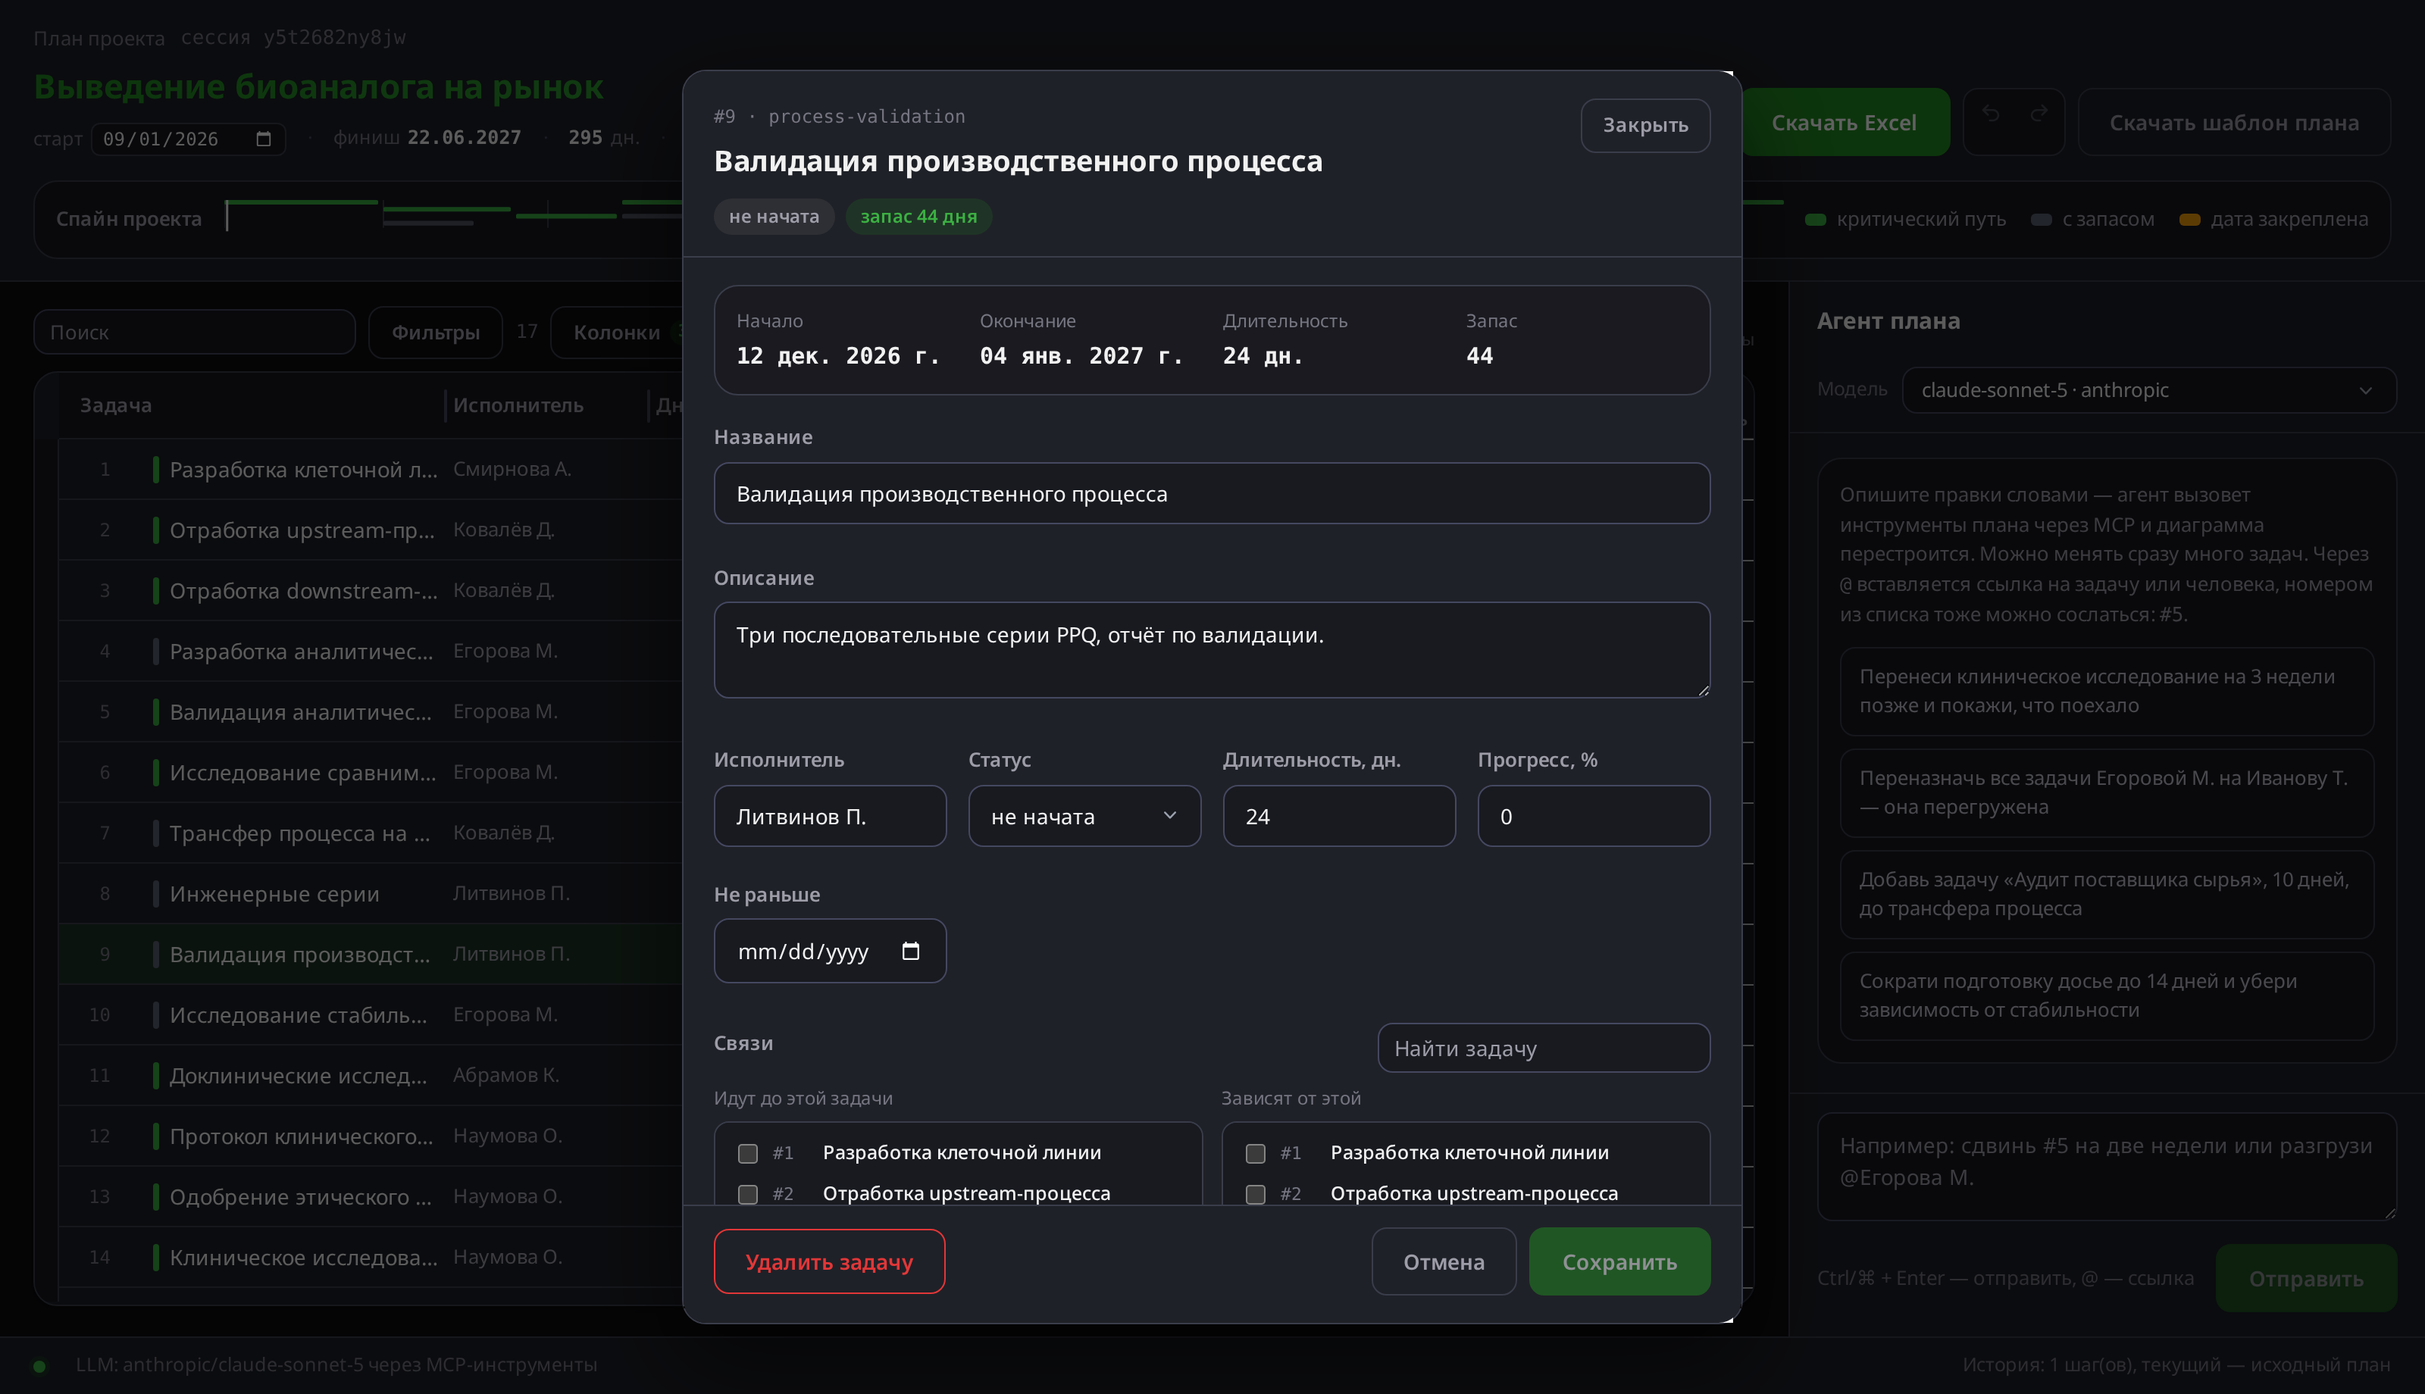
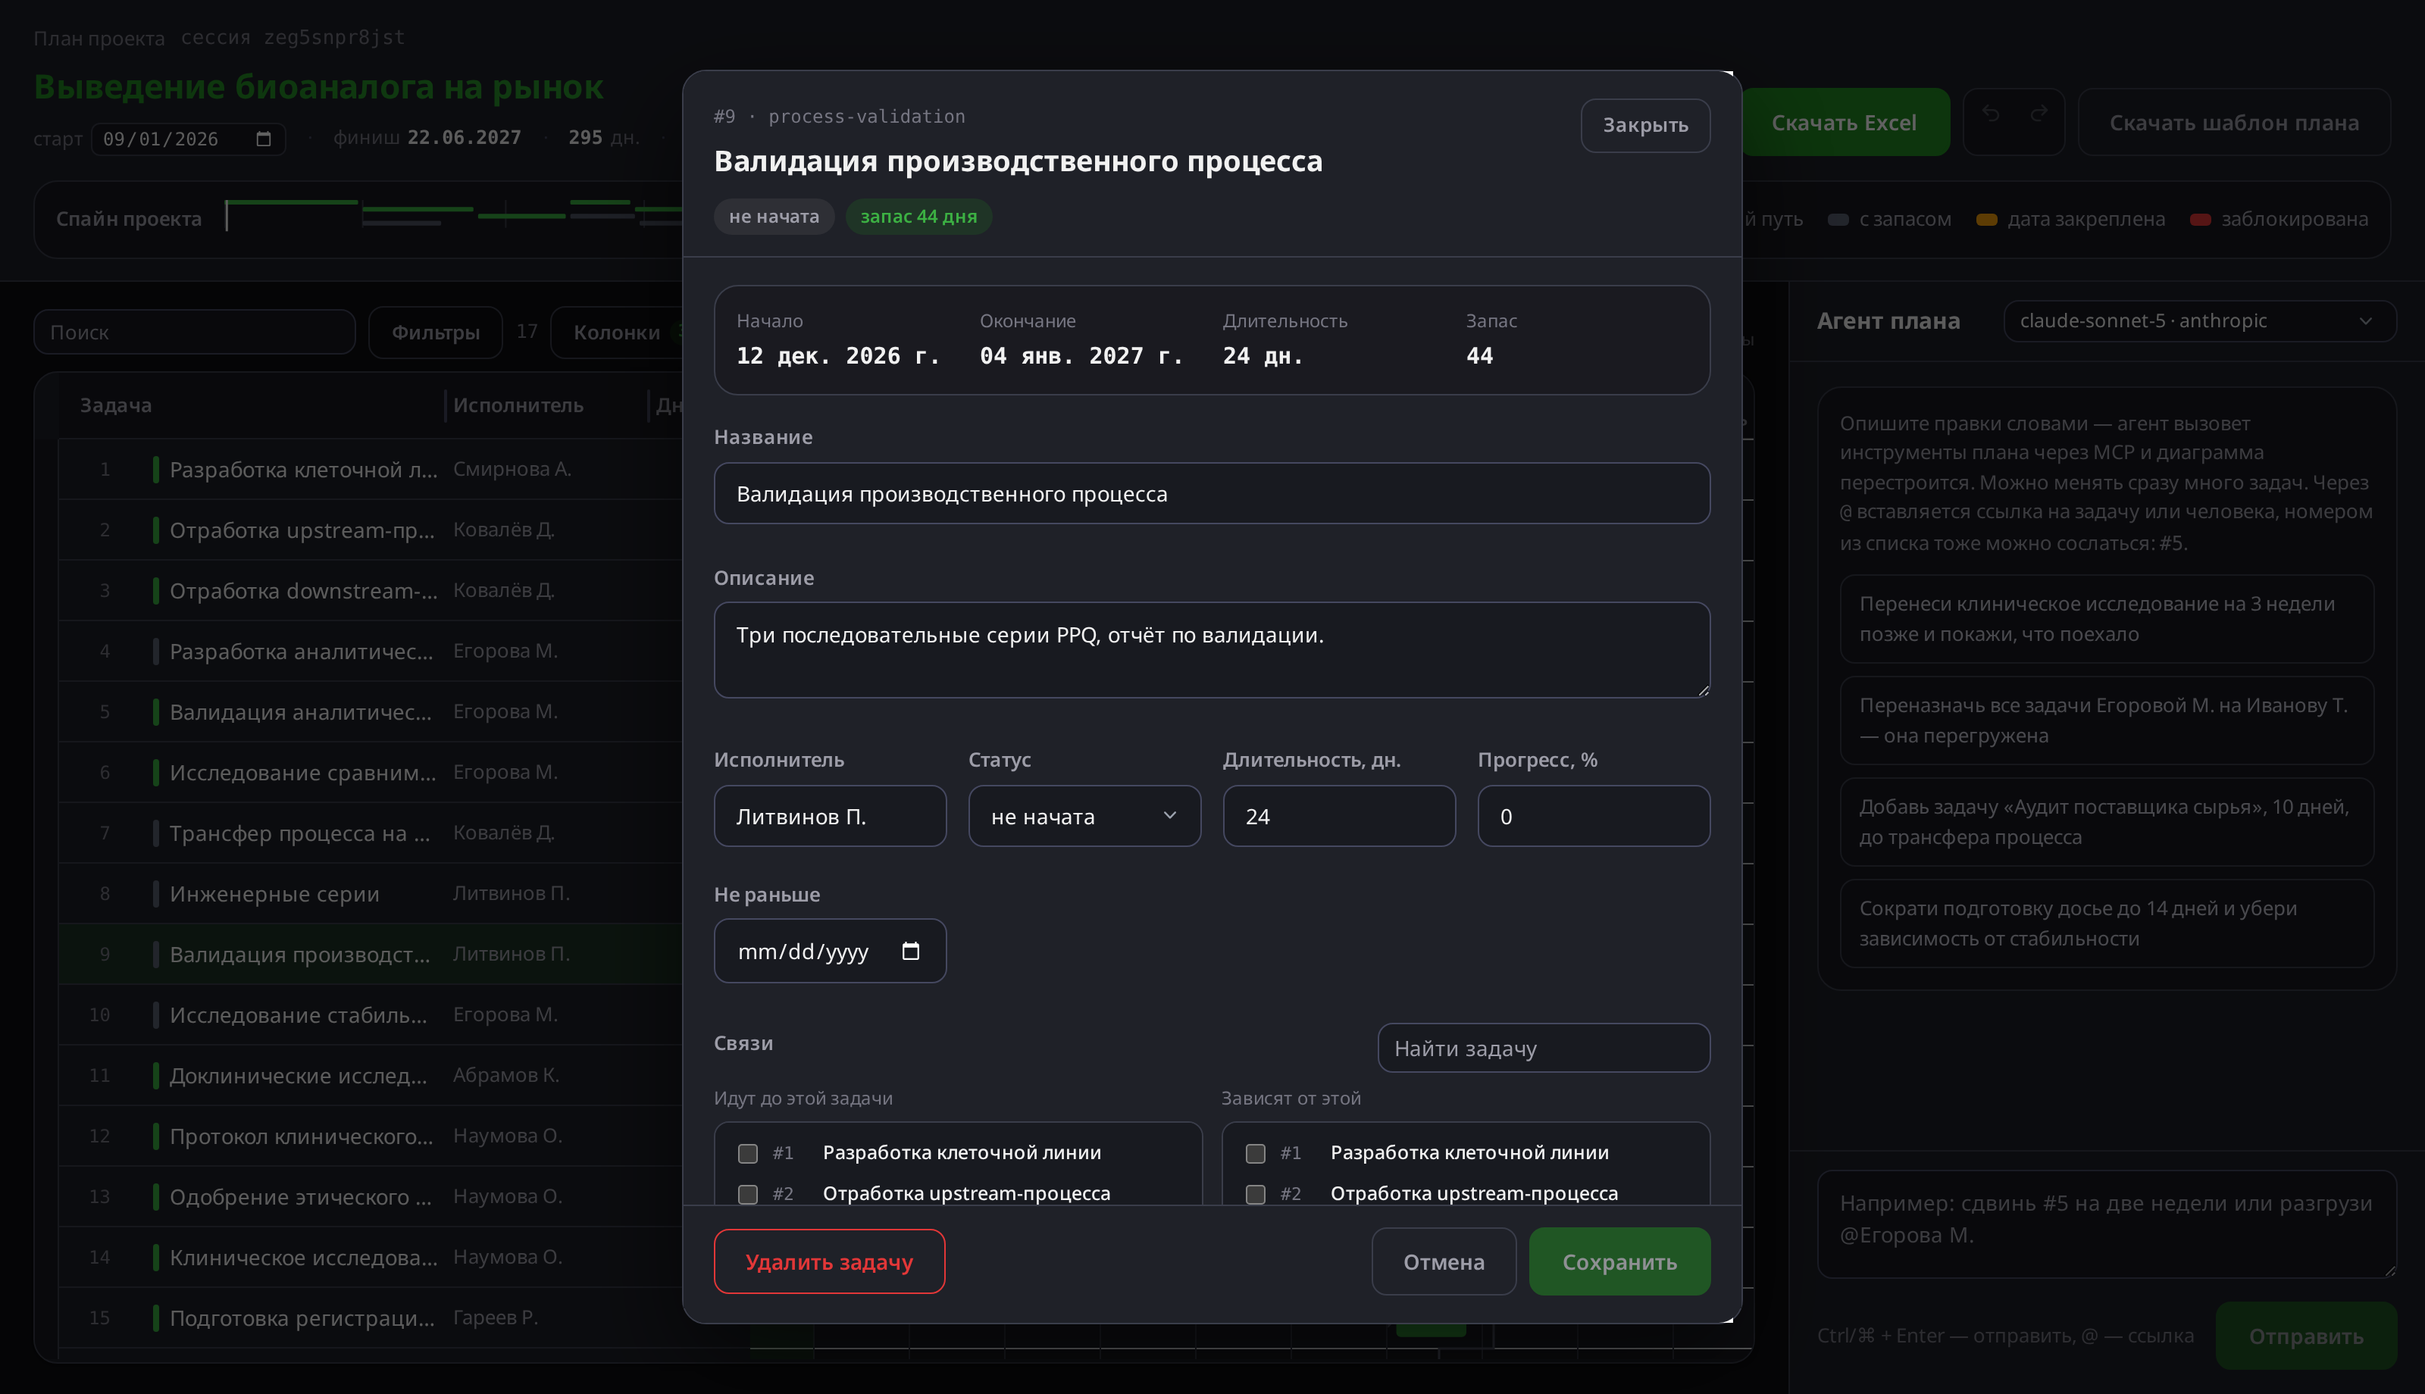
Источник плана и замечания — в шапку, подвал убран, модель в строке заголовка чата
Имя файла, из которого загружен план, теперь видно в шапке рядом с остальными
фактами о плане (или «демо-план», если это шаблон). Для этого в модель добавлено
поле Plan.source: оно живёт в самом плане, поэтому переживает правки, откат и
экспорт, — раньше имя файла проглядывало только в метке истории в подвале.

Подвал со строкой состояния убран. Из него ничего не потерялось: модель видна в
шапке чата, историю показывают стрелки отмены и возврата, а замечания
планировщика (например, «дата закреплена раньше, чем позволяют зависимости»)
переехали в шапку отдельным пунктом с подсказкой — иначе они стали бы невидимыми.

Выбор модели поднят в одну строку с заголовком «Агент плана».

На спайне заблокированные задачи показываются красным, и красный перебивает
критический путь и фиксацию даты: это сигнал проблемы. В легенду добавлен пункт.

Тестов 97 (новые: импорт запоминает имя файла и оно переживает откат; у демо-плана
источника нет).

diff --git a/frontend/src/App.tsx b/frontend/src/App.tsx
@@ -1,6 +1,6 @@
 import { useCallback, useEffect, useMemo, useRef, useState } from "react";
 import { ViewMode } from "gantt-task-react";
-import { Redo2, Undo2 } from "lucide-react";
+import { FileSpreadsheet, Redo2, TriangleAlert, Undo2 } from "lucide-react";
 import { ApiError, api, sessionId, streamChat } from "./api";
 import { ChatPanel } from "./components/ChatPanel";
 import { ColumnPicker, columnsWidth } from "./components/ColumnPicker";
@@ -10,7 +10,7 @@ import { EMPTY_FILTERS, TableFilter, applyFilters, isFilterActive } from "./comp
 import { TaskModal } from "./components/TaskModal";
 import { MIN_WINDOW_DAYS, TimeBrush } from "./components/TimeBrush";
 import { Toasts, type Toast } from "./components/Toasts";
-import { daysBetween, formatDateNumeric } from "./format";
+import { daysBetween, formatDateNumeric, plural } from "./format";
 import { loadPrefs, savePrefs } from "./prefs";
 import type {
   ChatEntry,
@@ -441,6 +441,22 @@ export default function App() {
               <b className="num">{assignees.size}</b>
               <span className="stats__label">исп.</span>
             </span>
+            <span
+              className="stats__item stats__source"
+              title={plan?.source ? `План загружен из файла ${plan.source}` : "Демо-план из шаблона"}
+            >
+              <FileSpreadsheet size={13} />
+              <span>{plan?.source || "демо-план"}</span>
+            </span>
+            {schedule?.warnings && schedule.warnings.length > 0 && (
+              <span
+                className="stats__item stats__warning"
+                title={schedule.warnings.join("\n")}
+              >
+                <TriangleAlert size={13} />
+                <span>{plural(schedule.warnings.length, "замечание", "замечания", "замечаний")}</span>
+              </span>
+            )}
           </div>
         </div>
 
@@ -617,23 +633,6 @@ export default function App() {
           onStop={() => abort.current?.abort()}
         />
       </div>
-
-      <footer className="statusbar">
-        <i className={`statusbar__dot${health?.llm_configured ? "" : " statusbar__dot--off"}`} />
-        <span>
-          {health?.llm_configured
-            ? `LLM: ${health.model} через MCP-инструменты`
-            : "LLM не настроен — чат недоступен"}
-        </span>
-        <span className="statusbar__spacer" />
-        {payload?.history?.length ? (
-          <span>
-            История: {payload.history.length} шаг(ов), текущий —{" "}
-            {payload.history.find((item) => item.is_current)?.label ?? "—"}
-          </span>
-        ) : null}
-        {schedule?.warnings?.length ? <span>Предупреждений: {schedule.warnings.length}</span> : null}
-      </footer>
 
       <Toasts toasts={toasts} onDismiss={dismissToast} />
 

diff --git a/frontend/src/styles.css b/frontend/src/styles.css
@@ -193,6 +193,23 @@ a.frox-btn {
   color: var(--accent-text) !important;
 }
 
+/* Источник плана — там же, где остальные факты о плане: раньше имя файла было
+   видно только в метке истории в подвале. */
+.stats__source {
+  gap: 6px;
+  color: var(--text-secondary);
+}
+
+.stats__source svg {
+  color: var(--text-muted);
+}
+
+.stats__warning {
+  gap: 6px;
+  color: var(--admin-accent);
+  cursor: help;
+}
+
 .stats__date {
   padding: 2px 6px;
   border: 1px solid var(--border);
@@ -978,39 +995,20 @@ body.is-dragging-row * {
   display: flex;
   align-items: center;
   justify-content: space-between;
-  gap: 10px;
-  padding: 14px 18px 12px;
+  gap: 12px;
+  padding: 12px 18px;
   border-bottom: 1px solid var(--border);
 }
 
-.chat__head {
-  flex-direction: column;
-  align-items: stretch;
-}
-
-.chat__head-row {
-  display: flex;
-  align-items: center;
-  justify-content: space-between;
-  gap: 10px;
-}
-
 .chat__model-picker {
-  display: flex;
-  align-items: center;
-  gap: 9px;
-  margin-top: 10px;
-}
-
-.chat__model-label {
-  font-size: 12.5px;
-  color: var(--text-muted);
-  white-space: nowrap;
+  flex: 1;
+  min-width: 0;
+  max-width: 260px;
 }
 
 .chat__model-picker .frox-select {
-  padding: 7px 32px 7px 12px;
-  font-size: 13px;
+  padding: 6px 30px 6px 10px;
+  font-size: 12.5px;
 }
 
 .chat__title {
@@ -1401,37 +1399,6 @@ body.is-dragging-row * {
 .toast__close:hover {
   background: var(--bg-hover);
   color: var(--text-primary);
-}
-
-/* --- строка состояния ----------------------------------------------------- */
-
-.statusbar {
-  display: flex;
-  align-items: center;
-  gap: 8px 20px;
-  flex-wrap: wrap;
-  padding: 9px 22px;
-  background: var(--bg-header);
-  border-top: 1px solid var(--border);
-  font-size: 12.5px;
-  color: var(--text-muted);
-}
-
-.statusbar__dot {
-  width: 8px;
-  height: 8px;
-  border-radius: 50%;
-  background: var(--accent-hover);
-  box-shadow: 0 0 0 3px var(--accent-soft);
-}
-
-.statusbar__dot--off {
-  background: var(--danger);
-  box-shadow: 0 0 0 3px var(--danger-soft);
-}
-
-.statusbar__spacer {
-  flex: 1;
 }
 
 /* --- модалка ------------------------------------------------------------- */

diff --git a/frontend/src/components/ProjectSpine.tsx b/frontend/src/components/ProjectSpine.tsx
@@ -69,13 +69,17 @@ export function ProjectSpine({ schedule }: { schedule: Schedule }) {
                 height={laneHeight}
                 rx={1}
                 fill={
-                  task.is_critical
-                    ? "var(--plan-critical)"
-                    : task.is_pinned
-                      ? "var(--plan-pinned)"
-                      : "var(--plan-normal)"
+                  // Заблокированная задача — сигнал проблемы, поэтому красный
+                  // перебивает и критический путь, и фиксацию даты.
+                  task.status === "blocked"
+                    ? "var(--danger)"
+                    : task.is_critical
+                      ? "var(--plan-critical)"
+                      : task.is_pinned
+                        ? "var(--plan-pinned)"
+                        : "var(--plan-normal)"
                 }
-                opacity={task.is_critical ? 1 : 0.85}
+                opacity={task.status === "blocked" || task.is_critical ? 1 : 0.85}
               />
             );
           })}
@@ -113,6 +117,9 @@ export function ProjectSpine({ schedule }: { schedule: Schedule }) {
         >
           <i className="legend-swatch" style={{ background: "var(--plan-pinned)" }} /> дата
           закреплена
+        </span>
+        <span className="legend-item" title="Задача со статусом «заблокирована»">
+          <i className="legend-swatch" style={{ background: "var(--danger)" }} /> заблокирована
         </span>
       </div>
     </div>

diff --git a/frontend/src/components/ChatPanel.tsx b/frontend/src/components/ChatPanel.tsx
@@ -129,13 +129,10 @@ export function ChatPanel({
   return (
     <section className="chat" aria-label="Чат с агентом-планировщиком">
       <header className="chat__head">
-        <div className="chat__head-row">
-          <div className="chat__title">Агент плана</div>
-        </div>
+        <div className="chat__title">Агент плана</div>
 
         {models.length > 0 ? (
           <label className="chat__model-picker">
-            <span className="chat__model-label">Модель</span>
             <select
               className="frox-select"
               value={model ?? ""}

diff --git a/frontend/src/types.ts b/frontend/src/types.ts
@@ -46,6 +46,7 @@ export interface Schedule {
 
 export interface Plan {
   title: string;
+  source: string;
   project_start: string;
   tasks: PlanTask[];
 }

diff --git a/backend/tests/test_api.py b/backend/tests/test_api.py
@@ -522,3 +522,19 @@ def test_a_new_edit_drops_the_redo_future(sid):
     # правка после отката обрезает будущее — как в любом редакторе
     client.patch("/api/plan/tasks/upstream", params={"session_id": sid}, json={"assignee": "Кто-то"})
     assert client.post("/api/plan/redo", params={"session_id": sid}).status_code == 409
+
+
+def test_import_remembers_the_source_file(sid):
+    files = {"file": ("Портфель Q3.xlsx", xlsx([("A", "", "", 1, "")]), "application/vnd.ms-excel")}
+    body = client.post("/api/plan/import", params={"session_id": sid}, files=files).json()
+    assert body["plan"]["source"] == "Портфель Q3.xlsx"
+
+    # имя файла переживает правку и откат
+    client.patch("/api/plan/tasks/a", params={"session_id": sid}, json={"duration_days": 5})
+    after_undo = client.post("/api/plan/undo", params={"session_id": sid}).json()
+    assert after_undo["plan"]["source"] == "Портфель Q3.xlsx"
+
+
+def test_demo_plan_has_no_source_file(sid):
+    body = client.post("/api/plan/reset", params={"session_id": sid}).json()
+    assert body["plan"]["source"] == ""

diff --git a/backend/app/models.py b/backend/app/models.py
@@ -67,6 +67,9 @@ class Plan(BaseModel):
     """The whole plan: a title, a start date and the task list."""
 
     title: str = "План проекта"
+    # Имя файла, из которого план загружен. Пусто — значит это демо-план из сида.
+    # Живёт в плане, а не рядом: тогда оно переживает снимки, откат и экспорт.
+    source: str = ""
     project_start: date
     tasks: list[Task] = Field(default_factory=list)
 

diff --git a/backend/app/main.py b/backend/app/main.py
@@ -231,6 +231,7 @@ async def import_plan(
     title = file_title or Path(file.filename or "План проекта").stem
     try:
         plan = plan_from_xlsx(blob, project_start=start, title=title)
+        plan.source = (file.filename or "").strip()
     except ExcelImportError as exc:
         raise HTTPException(
             status_code=400, detail={"message": exc.message, "details": exc.details}
